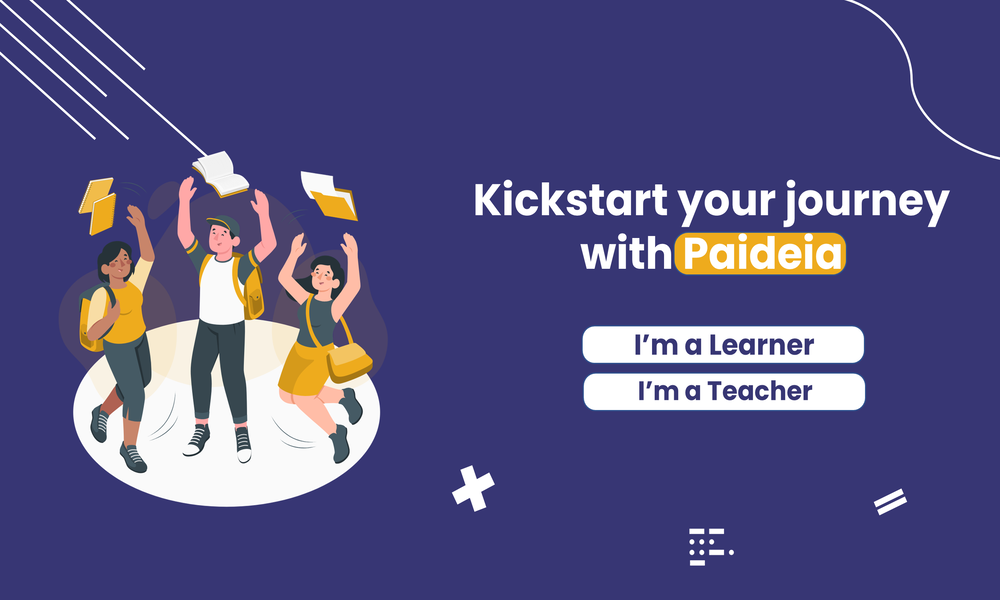
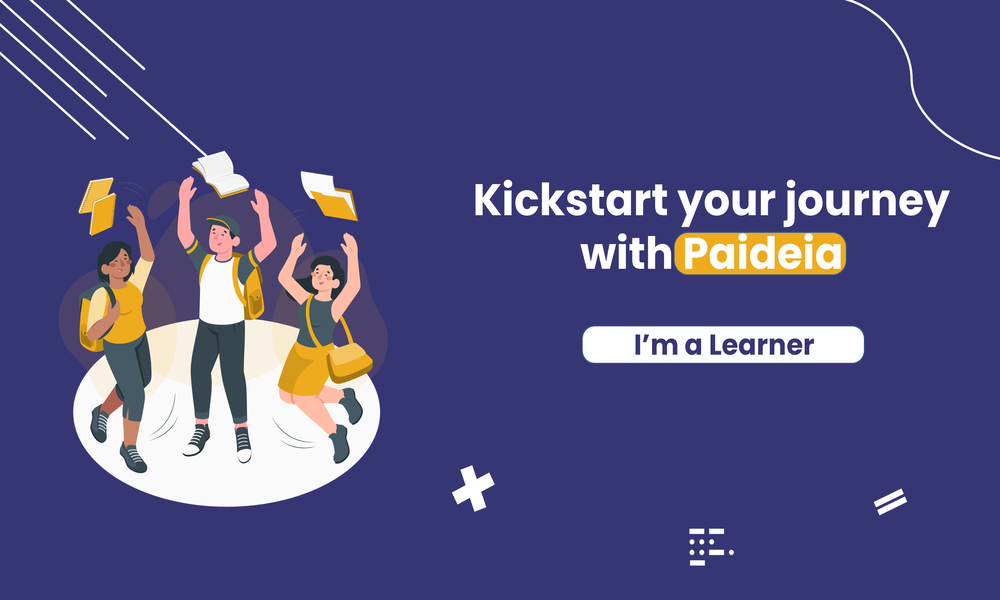
radio

Changed region(s): [[0.558, 0.6, 0.868, 0.69]]

diff --git a/PaideiaTest/src/HomePage.java b/PaideiaTest/src/HomePage.java
@@ -26,7 +26,7 @@ public class HomePage implements ActionListener {
 
     // homepage components
     JFrame mainFrame; // mainFrame refers to homepage
-    JButton LearnerButton, TeacherButton; // already have an account? or create an account?
+    JButton getStartedBtn; // already have an account? or create an account?
     BufferedImage homeImage; // homepage background image
 
     // go back button
@@ -41,8 +41,7 @@ public class HomePage implements ActionListener {
     public HomePage() {
         // creating homepage components objects
         mainFrame = new JFrame("Paideia | Login or Signup");
-        LearnerButton = new JButton("I'm a Learner");
-        TeacherButton = new JButton("I'm a Teacher");
+        getStartedBtn = new JButton("Get Started!");
         goBack = new JButton("Go Back"); // preconfiguring go back
 
         // creating objects for loginpage and signuppage
@@ -50,13 +49,11 @@ public class HomePage implements ActionListener {
         sgnp = new SignupFunctions();
 
         // designing homepage components
-        LearnerButton.setBounds(575, 315, 290, 50);
-        TeacherButton.setBounds(575, 370, 290, 50);
+        getStartedBtn.setBounds(575, 315, 290, 50);
         goBack.setBounds(10, 10, 100, 25); // preconfiguring go back
 
         // adding actions to homepage components
-        LearnerButton.addActionListener(this);
-        TeacherButton.addActionListener(this);
+        getStartedBtn.addActionListener(this);
         goBack.addActionListener(this); // preconfiguring go back
 
         // adding background image on mainframe
@@ -68,8 +65,7 @@ public class HomePage implements ActionListener {
         }
 
         // adding homepage components in mainFrame
-        mainFrame.add(LearnerButton);
-        mainFrame.add(TeacherButton);
+        mainFrame.add(getStartedBtn);
 
         // homepage default configurations
         mainFrame.setSize(1000, 600);
@@ -91,7 +87,7 @@ public class HomePage implements ActionListener {
     public void actionPerformed(ActionEvent e) {
 
         // IF LOGIN BUTTON IS PRESSED...
-        if ((e.getSource() == LearnerButton) || (e.getSource() == TeacherButton)) {
+        if ((e.getSource() == getStartedBtn)) {
 
             // designing loginpage components
             new LoginPageDecor(mainFrame, goBack, lgn);
@@ -138,8 +134,7 @@ public class HomePage implements ActionListener {
             } catch (Exception excp) {
                 System.out.println(excp);
             }
-            mainFrame.add(LearnerButton); // adding homepage component, login
-            mainFrame.add(TeacherButton); // adding homepage component, signup
+            mainFrame.add(getStartedBtn); // adding homepage component, login
             SwingUtilities.updateComponentTreeUI(mainFrame); // refreshing mainframe
         }
 

diff --git a/PaideiaTest/src/SignupPageDecor.java b/PaideiaTest/src/SignupPageDecor.java
@@ -29,7 +29,9 @@ public class SignupPageDecor {
         sgnp.PasswordPF.setBounds(618, 325, 245, 30);
         sgnp.RtpPasswordPF.setBounds(618, 360, 245, 30);
         sgnp.DataVerificationMsg.setBounds(200, 400, 800, 25);
-        sgnp.Button.setBounds(649, 413, 190, 38);
+        sgnp.Button.setBounds(649, 460, 190, 38);
+        sgnp.ImTeacher.setBounds(649, 400, 190, 20);
+        sgnp.ImStudent.setBounds(649, 430, 190, 20);
 
         // adding signuppage components in mainFrame
         mainFrame.add(sgnp.Name);
@@ -44,6 +46,8 @@ public class SignupPageDecor {
         mainFrame.add(sgnp.RtpPasswordPF);
         mainFrame.add(sgnp.DataVerificationMsg);
         mainFrame.add(sgnp.Button);
+        mainFrame.add(sgnp.ImStudent);
+        mainFrame.add(sgnp.ImTeacher);
         // adding go back button in both loginpage and signuppage
         mainFrame.add(goBack);
 

diff --git a/PaideiaTest/src/SignupFunctions.java b/PaideiaTest/src/SignupFunctions.java
@@ -10,6 +10,9 @@ public class SignupFunctions implements ISignupFunctions{
     JTextField NameTF, EmailTF, UsernameTF;
     JPasswordField PasswordPF, RtpPasswordPF;
     JButton Button;
+    JRadioButton ImTeacher;
+    JRadioButton ImStudent;
+    
 
     public SignupFunctions(){
         //creating objects for signuppage components
@@ -28,6 +31,8 @@ public class SignupFunctions implements ISignupFunctions{
         RtpPasswordPF = new JPasswordField();
             //buttons
         Button = new JButton("Sign Up");
+        ImTeacher = new JRadioButton("I'm a Teacher!");
+        ImStudent = new JRadioButton("I'm a Student!");
     }
 
     //checking if user entered password in password field
